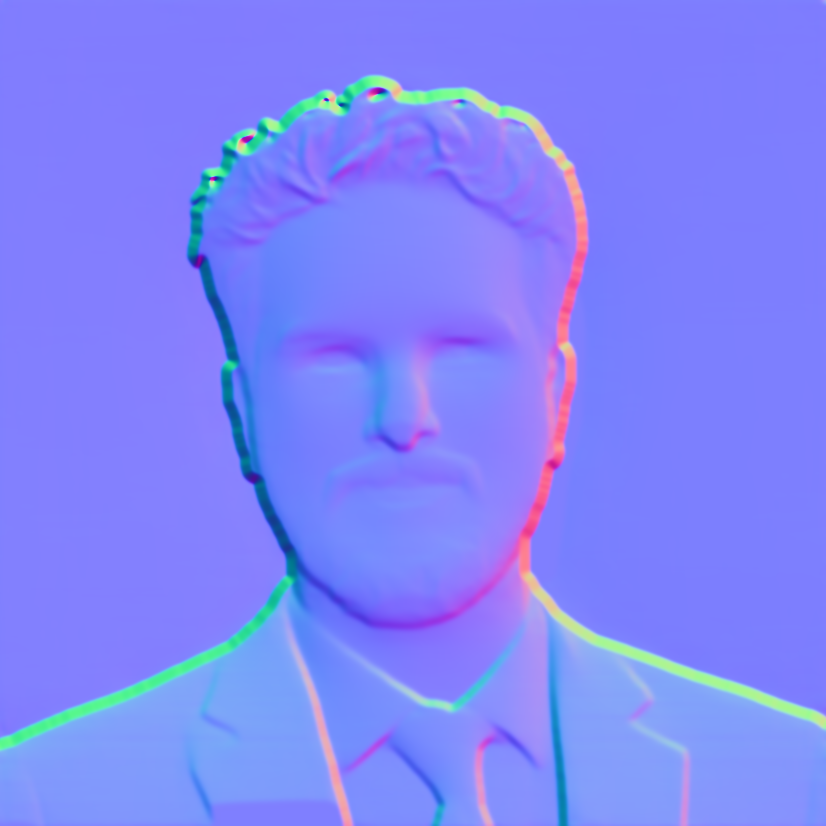
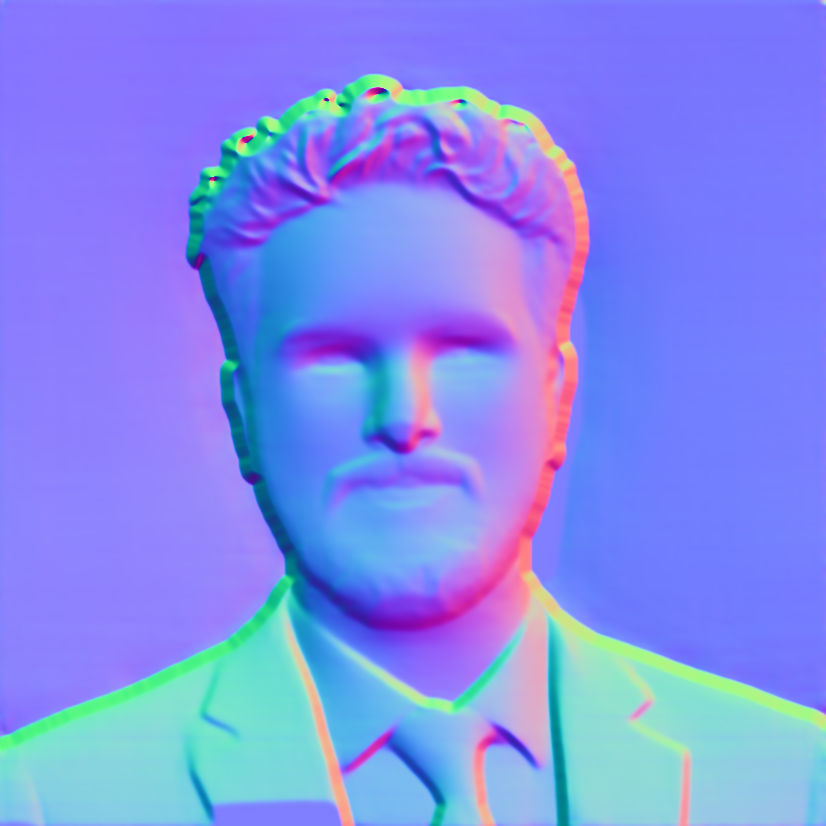
feat: portrait relief shows: stronger normals and a lower raking light; slight zoom and a round frame
Claude-Session: https://claude.ai/code/session_01F5uu6Ng9ox6gnxDupqF3xJ

diff --git a/src/pages/index.tsx b/src/pages/index.tsx
@@ -84,8 +84,8 @@ export default function Home() {
           {/* New ThreeJS Picture Container */}
           <div className="w-[300px] h-[300px] mx-12 self-center lg:self-start">
             <div className="relative group h-full w-full">
-              <div className="transition ease-in-out duration-300 group-hover:transition group-hover:duration-300 rounded-lg group-hover:translate-x-3.5 group-hover:translate-y-5 border-primary-500 border-2 absolute w-full h-full top-0 left-0 translate-x-4 translate-y-6" />
-              <div className="rounded-lg overflow-hidden z-10 border-2 border-primary-500 h-full w-full  ">
+              <div className="transition ease-in-out duration-300 group-hover:transition group-hover:duration-300 rounded-full group-hover:translate-x-3.5 group-hover:translate-y-5 border-primary-500 border-2 absolute w-full h-full top-0 left-0 translate-x-4 translate-y-6" />
+              <div className="rounded-full overflow-hidden z-10 border-2 border-primary-500 h-full w-full  ">
                 <ThreeJSPicture />
               </div>
               {/* <div className="absolute w-full h-full bg-primary-500 top-0 left-0 opacity-30 group-hover:opacity-0 rounded transition duration-250 " /> */}

diff --git a/src/components/ThreeJSPicture.tsx b/src/components/ThreeJSPicture.tsx
@@ -27,6 +27,8 @@ export default function ThreeJSPicture() {
 
 // World units per CSS pixel, from the camera's zoom of 100.
 const UNITS_PER_PX = 1 / 100;
+// How far into the photo to zoom: 1 shows all of it.
+const ZOOM = 1.12;
 // How far the light reaches, in world units (the plane is 3 across).
 const REACH = 2.6;
 
@@ -37,9 +39,10 @@ const vertexShader = /* glsl */ `
   varying vec3 vPos;
 
   void main() {
-    vUv = uv;
+    // Sample a slightly smaller centre of the photo: a gentle zoom.
+    vUv = (uv - 0.5) / ${ZOOM.toFixed(2)} + 0.5;
     vec3 pos = position;
-    pos.z += texture2D(uDepth, uv).r * uDepthScale;
+    pos.z += texture2D(uDepth, vUv).r * uDepthScale;
     vPos = pos;
     gl_Position = projectionMatrix * modelViewMatrix * vec4(pos, 1.0);
   }
@@ -58,7 +61,7 @@ const fragmentShader = /* glsl */ `
   // the light floats. A low light rakes across the face, so the surfaces
   // that turn towards it light up and the ones that turn away stay gray.
   const float RELIEF = 0.55;
-  const float LIGHT_HEIGHT = 0.75;
+  const float LIGHT_HEIGHT = 0.45;
   // Distance at which the light has faded to nothing.
   const float REACH = ${REACH.toFixed(2)};
 

diff --git a/scripts/portrait-maps.py b/scripts/portrait-maps.py
@@ -40,7 +40,7 @@ def gaussian_blur(a, sigma):
     return np.apply_along_axis(lambda v: np.convolve(v, k, mode="valid"), 0, a)
 
 h = gaussian_blur(d.astype(np.float32), 2.5)
-relief = img.size[0] * 0.12          # how tall the face stands, in pixels
+relief = img.size[0] * 0.5          # how tall the face stands, in pixels
 hy, hx = np.gradient(h * relief)
 n = np.dstack([-hx, hy, np.ones_like(h)])   # image y runs down; OpenGL y runs up
 n /= np.linalg.norm(n, axis=2, keepdims=True)
